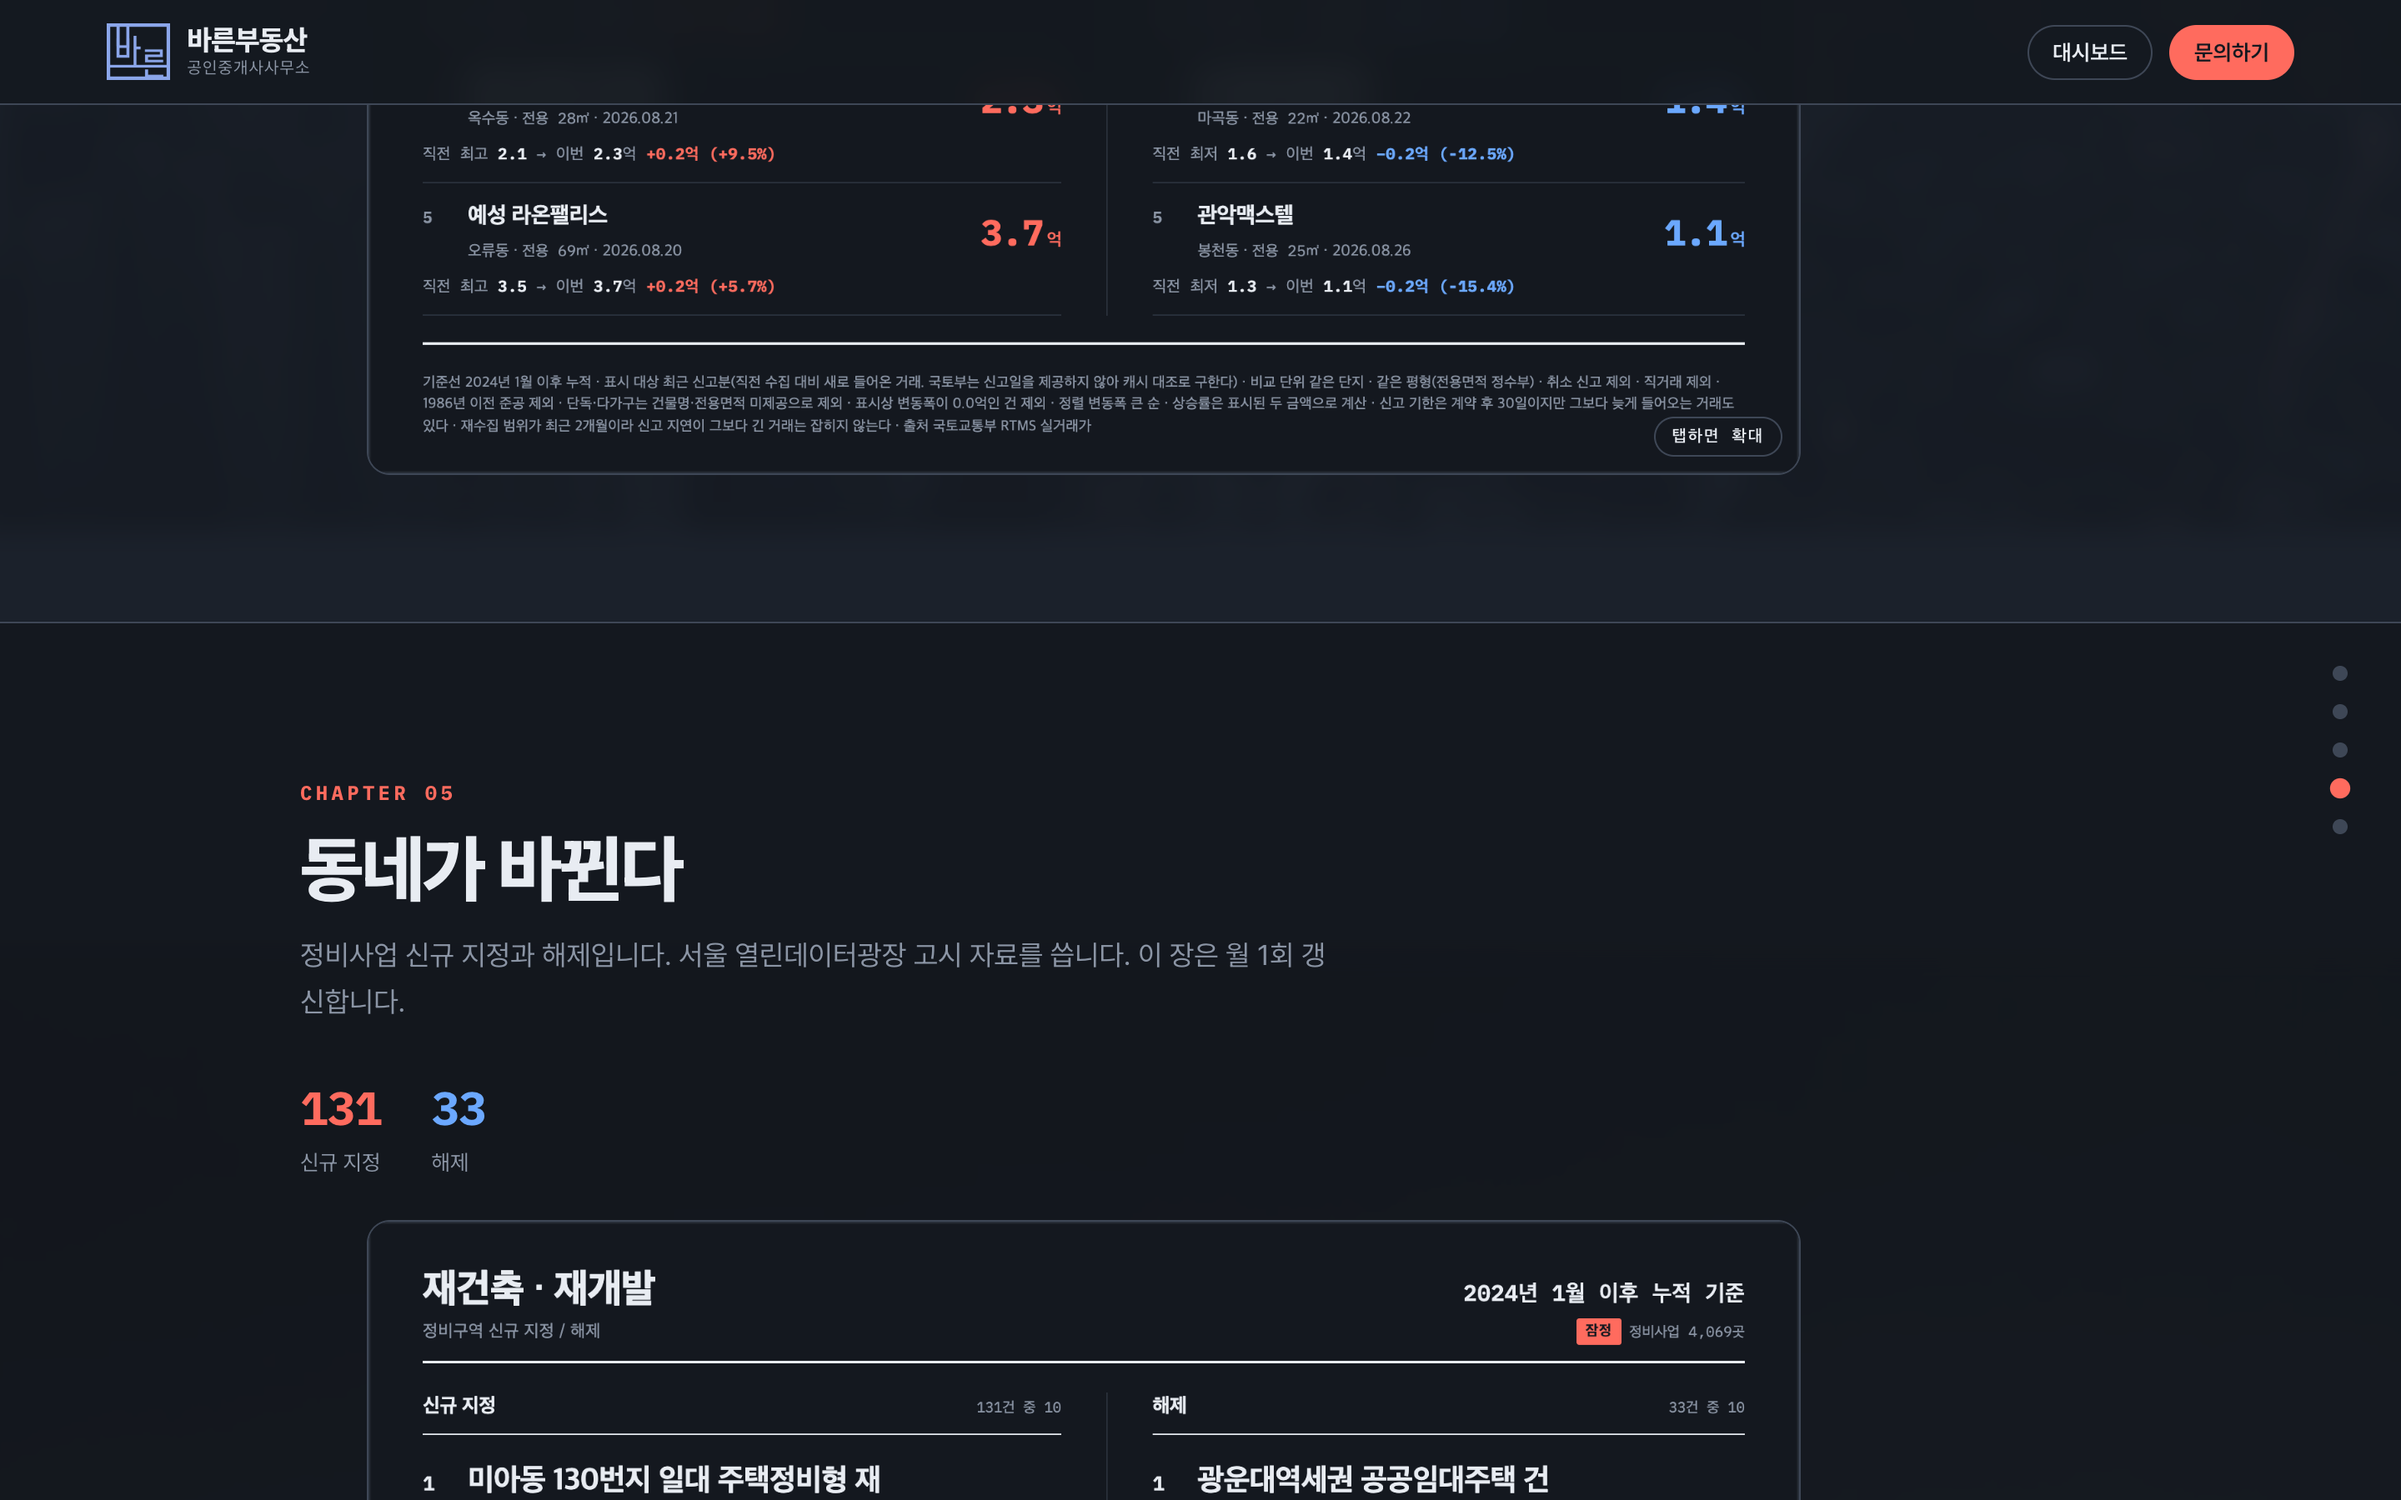
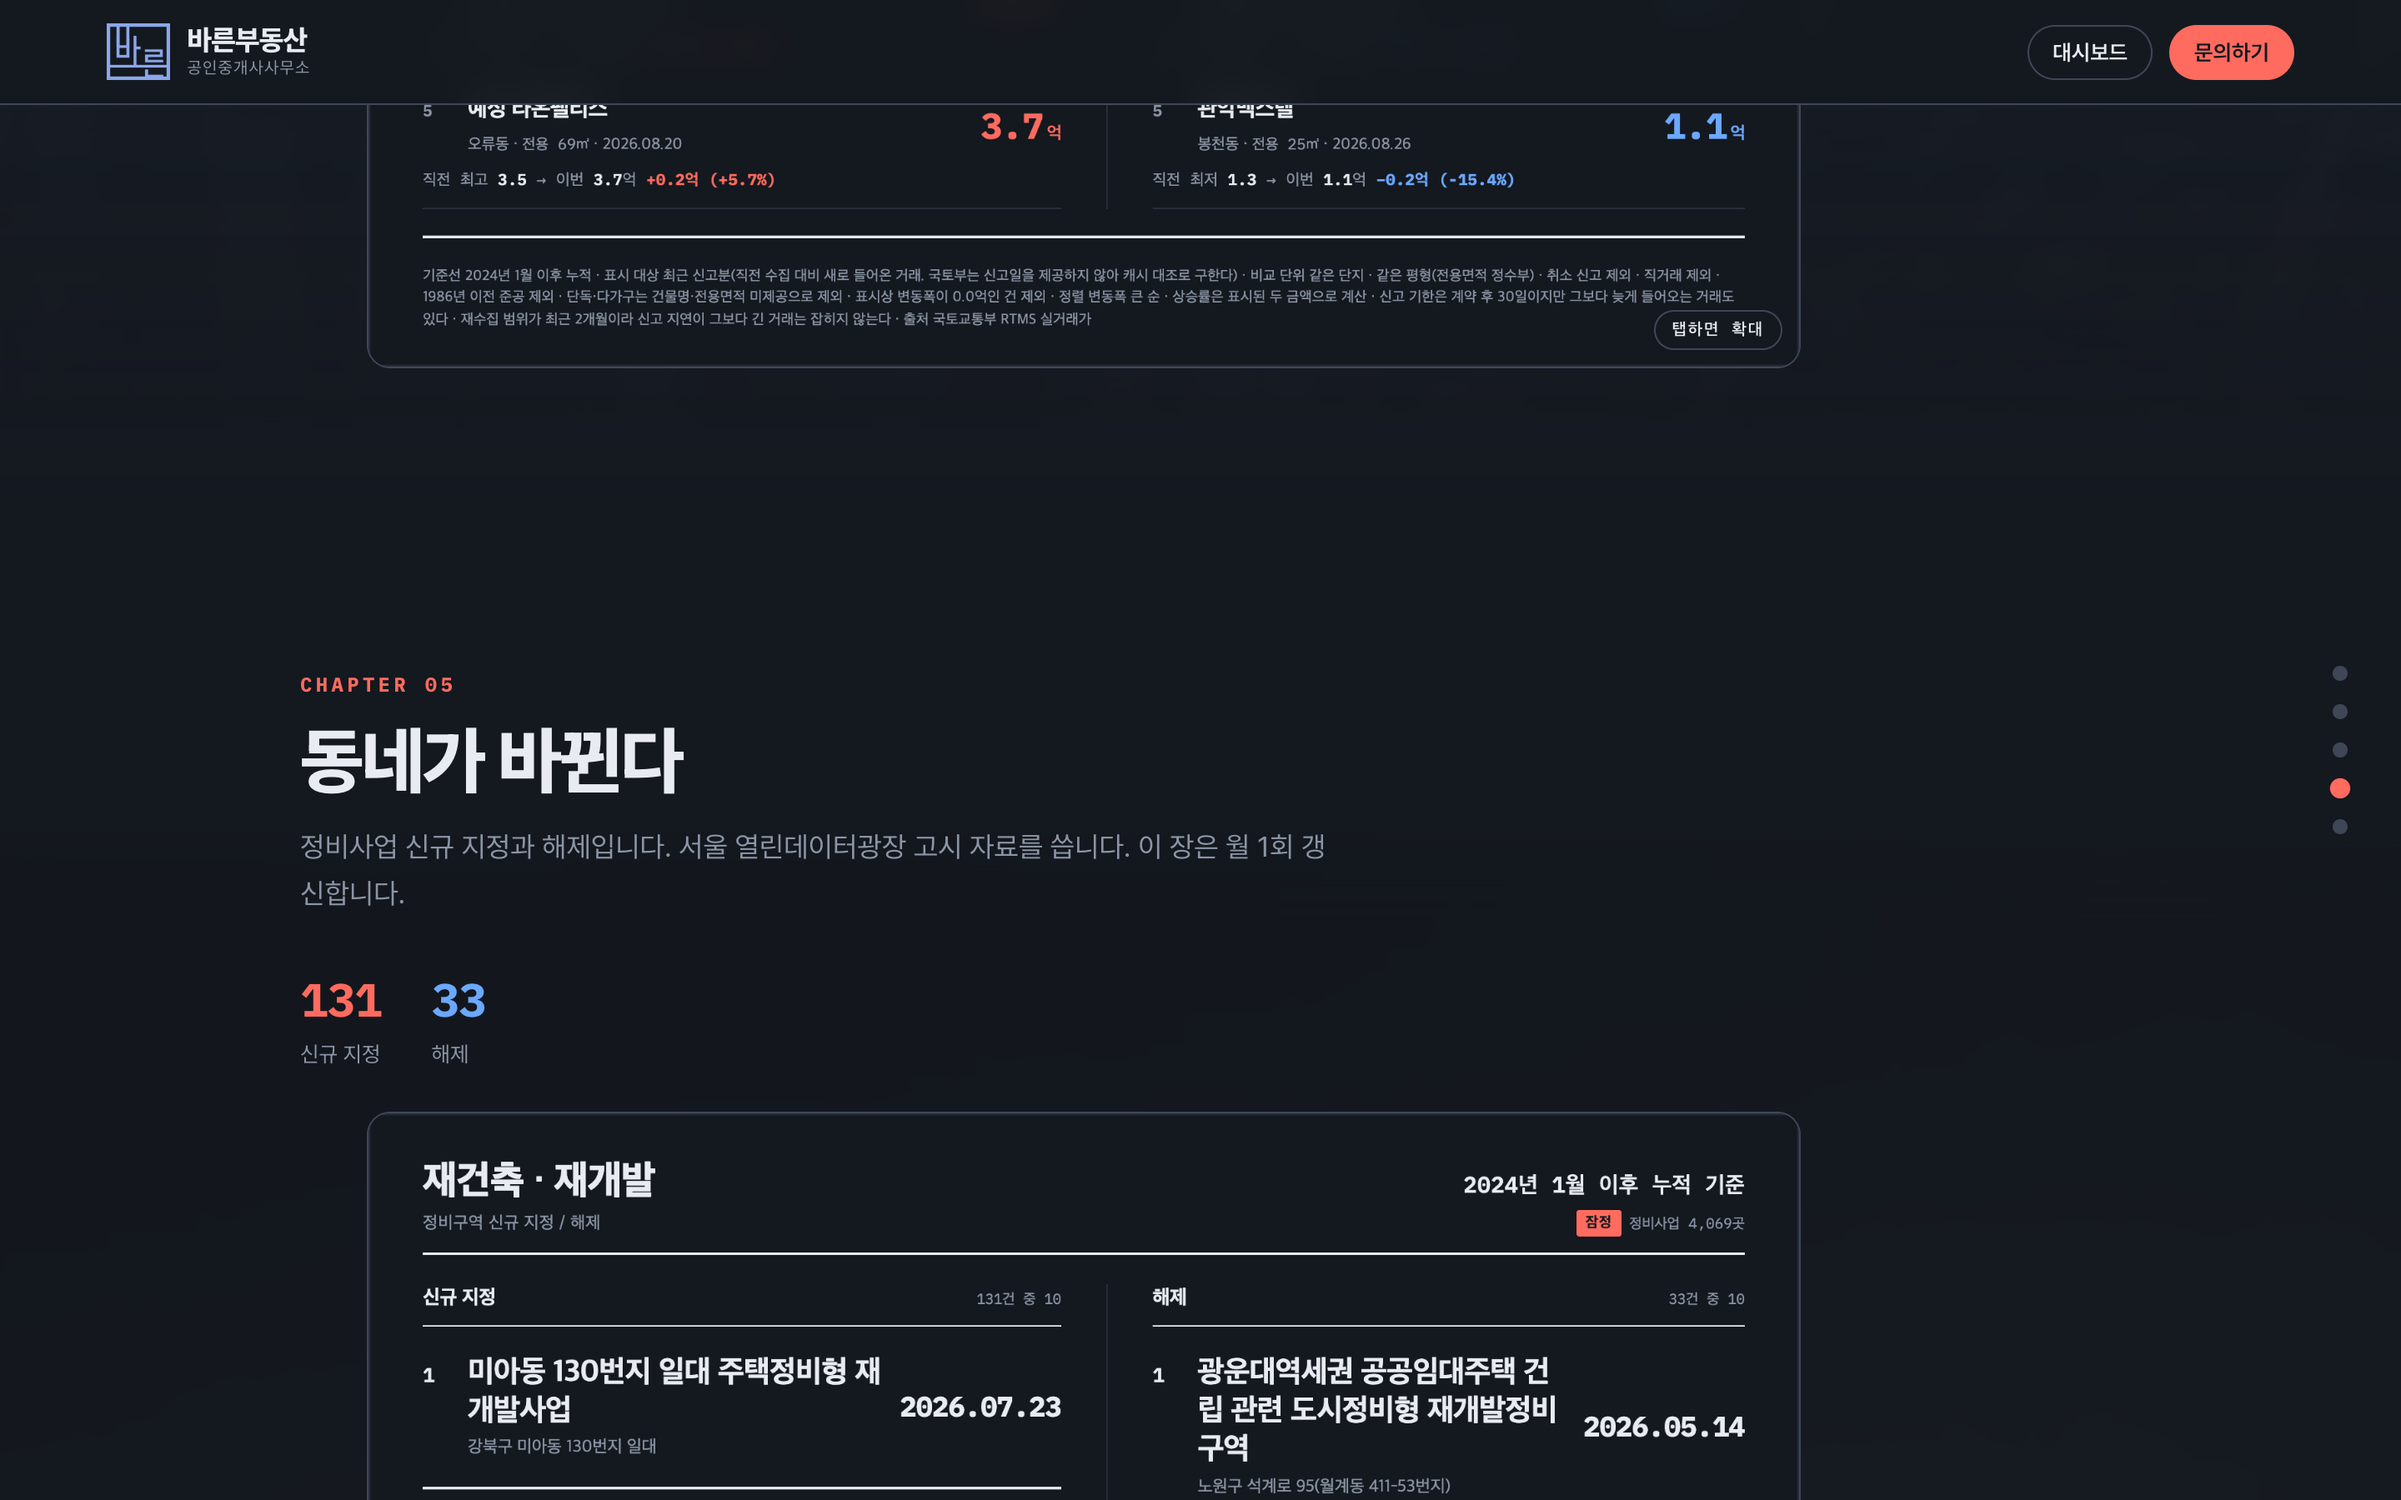
style: 챕터 경계의 밝기 단차 제거
배경 사진에 위·아래 페이드 마스크를 걸고, 짝수 챕터의 바탕색 교차를 같은 방식으로
녹는 반투명 층으로 바꿨다. 섹션 사이 1px 실선도 뺐다.
경계 밝기 단차 ΔL 8.7(칼단면) -> 최대 1.0(점진) 로 측정 확인.

diff --git a/index.html b/index.html
@@ -95,9 +95,18 @@ section.ch{
   min-height:100svh;scroll-snap-align:start;
   padding:96px var(--gut) 72px;
   display:flex;flex-direction:column;justify-content:center;
-  border-bottom:1px solid var(--slate);position:relative;overflow:hidden;
+  position:relative;overflow:hidden;
 }
-section.ch:nth-child(even){background:var(--ink-2)}
+/* 짝수 챕터의 한 단 밝은 바탕. 예전에는 background 를 통째로 바꿔 깔았는데,
+   그러면 챕터가 바뀌는 지점에서 밝기가 칼같이 잘려 가로 단차로 보인다(ΔL 8.7).
+   같은 색을 반투명 층으로 얹고 위·아래를 투명으로 빼면 단차 없이 같은 리듬이 남는다.
+   rgba 값은 #14181F 위에 5% 로 얹었을 때 #1B212B 가 나오도록 잡았다. */
+section.ch:nth-child(even)::after{
+  content:'';position:absolute;inset:0;z-index:0;pointer-events:none;
+  background:rgba(160,204,255,.05);
+  -webkit-mask-image:linear-gradient(180deg,transparent 0%,#000 22%,#000 78%,transparent 100%);
+  mask-image:linear-gradient(180deg,transparent 0%,#000 22%,#000 78%,transparent 100%);
+}
 .inner{position:relative;z-index:1;width:100%;max-width:1080px;margin:0 auto}
 
 /* 챕터 ②~⑤ 배경 — 히어로와 같은 사진을 거의 안 보이게 깐다.
@@ -111,6 +120,10 @@ section.ch:nth-child(even){background:var(--ink-2)}
   background-repeat:no-repeat;
   opacity:.2;
   filter:blur(8px) saturate(.5) brightness(.72);
+  /* 위·아래 끝을 투명으로 빼 바탕색에 녹인다. 이게 없으면 챕터가 바뀌는 지점에서
+     사진 밝기가 그대로 잘려 가로 단차로 보인다(4→5 경계에서 특히). */
+  -webkit-mask-image:linear-gradient(180deg,transparent 0%,#000 20%,#000 80%,transparent 100%);
+  mask-image:linear-gradient(180deg,transparent 0%,#000 20%,#000 80%,transparent 100%);
 }
 #ch2::before{background-position:14% 22%;background-size:135%}
 #ch3::before{background-position:80% 40%;background-size:120%}
